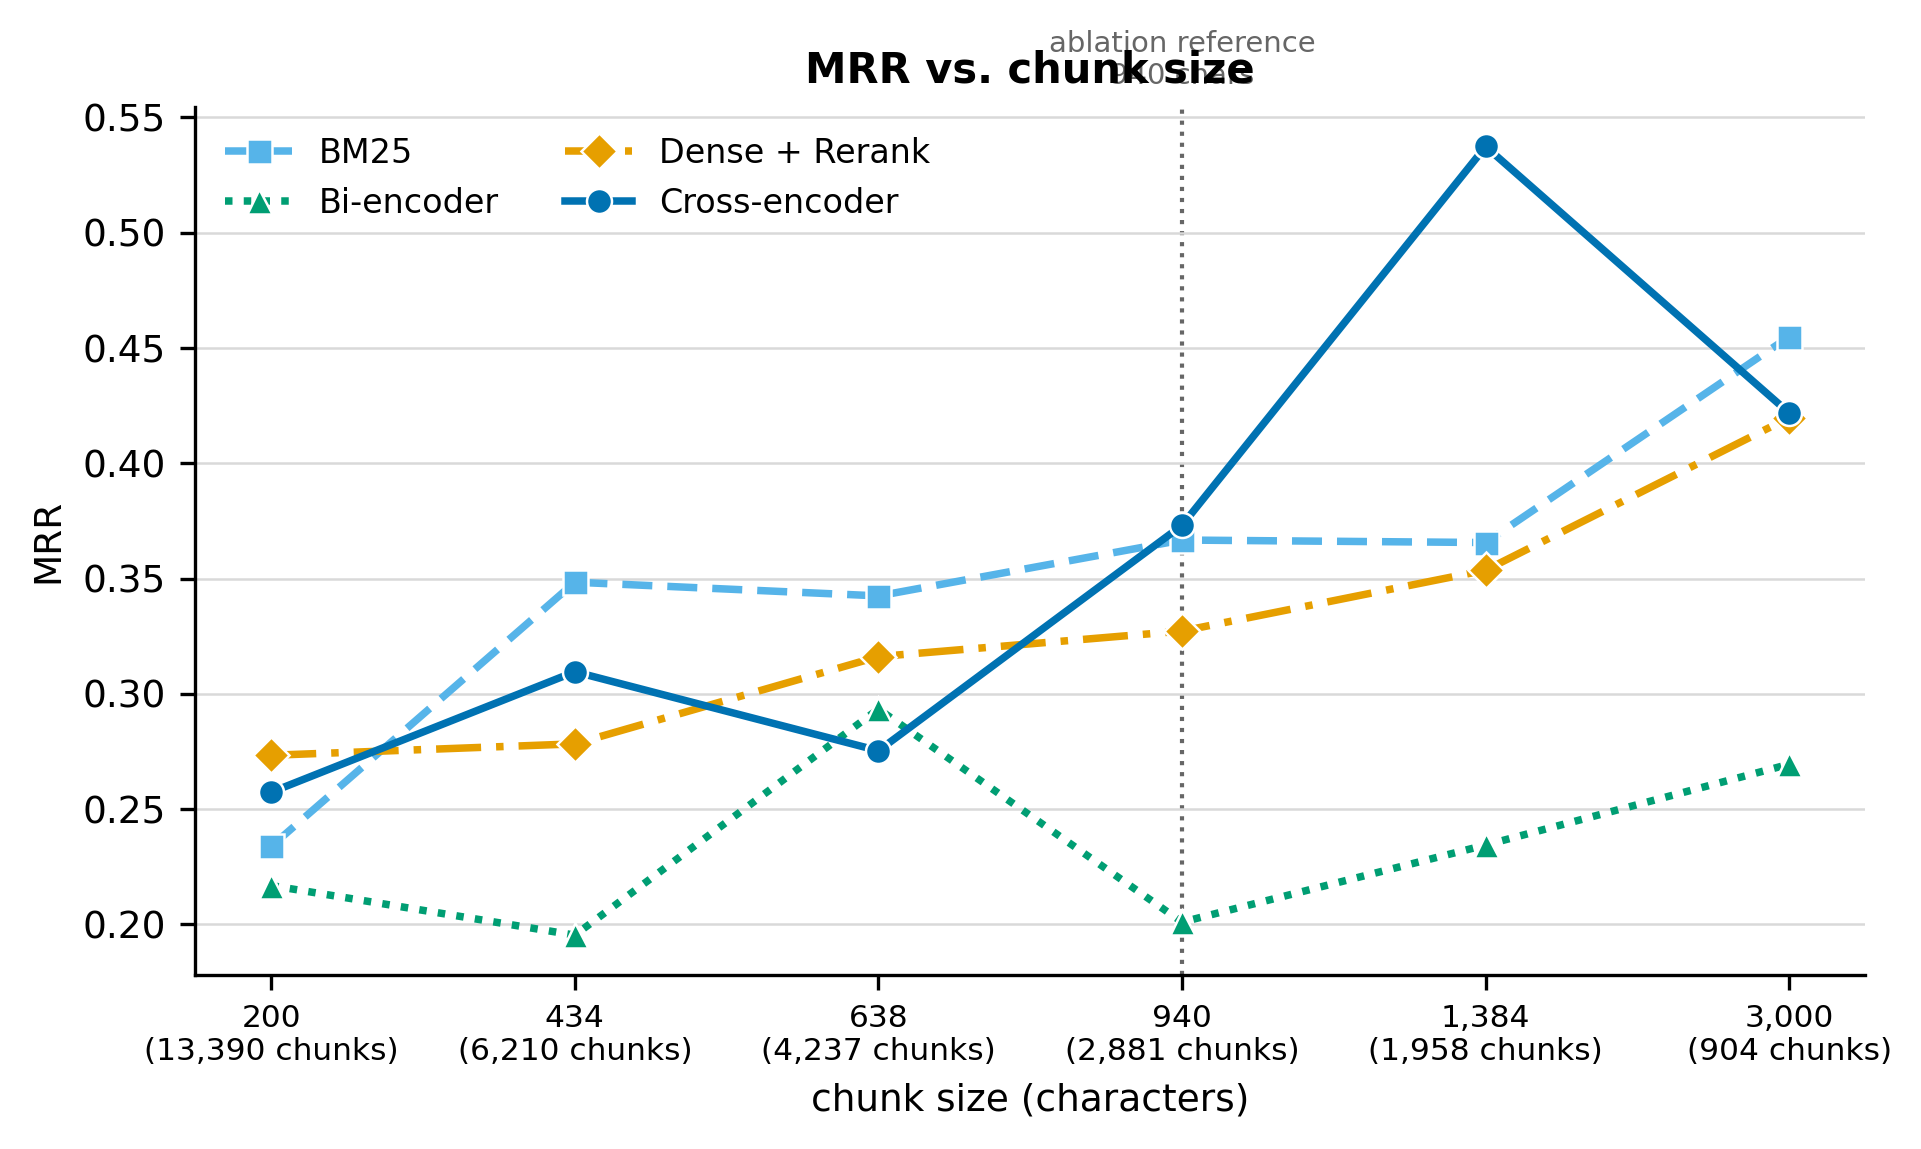
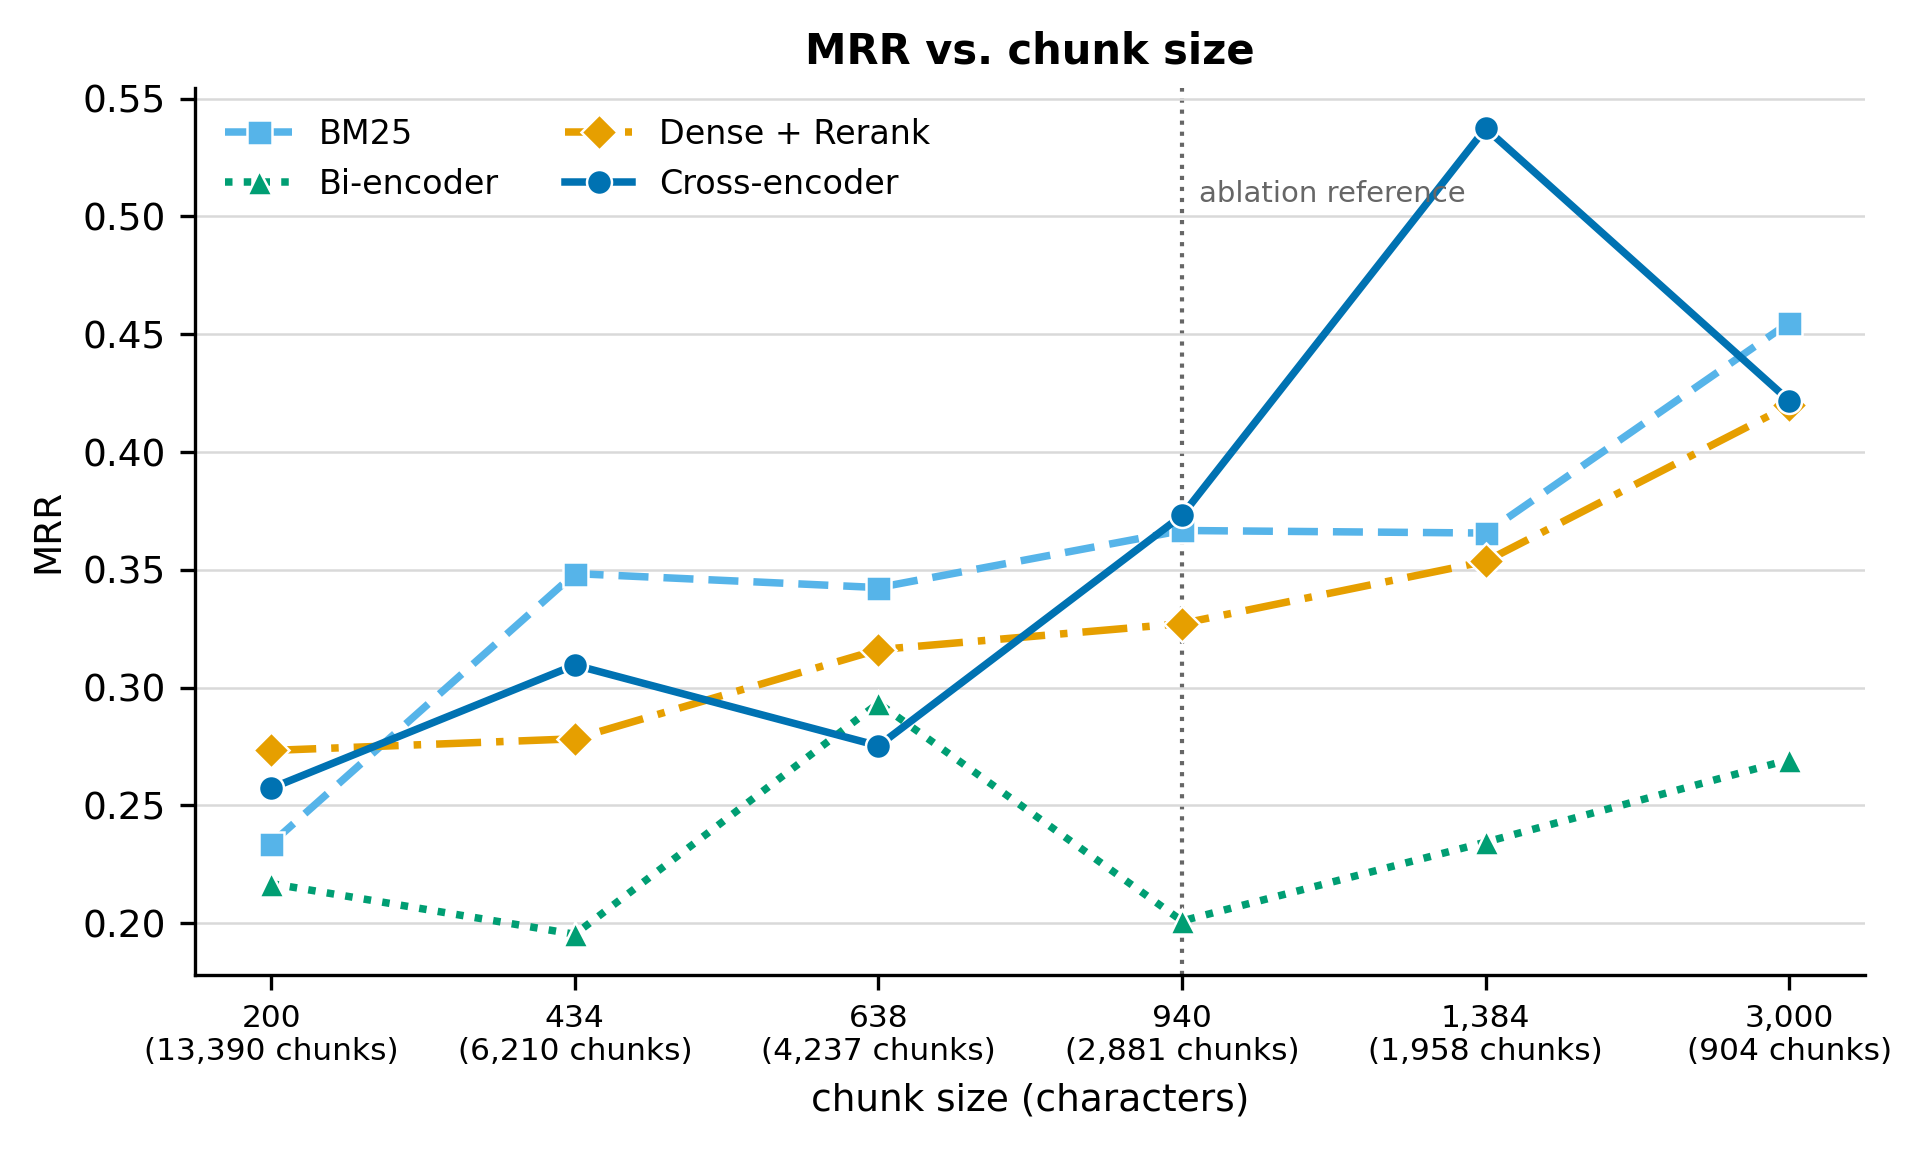
Regenerate figures: restrict CE histogram to the 24 evaluated labels
fig3_ce_score_histogram plotted all 26 labels present in ce_scores.csv
(it also scores 'Landscape dynamics' and 'Management'), giving
528 + 75,548 = 76,076 = 26 x 2,926 pairs rather than the 24 x 2,926 =
70,224 the paper reports. It also showed 528 ground-truth positives,
predating the label-whitespace fix.

The figure now filters to the 24 evaluated labels and restores the
(Legislation, chunk 2688) pair, reading n=529 and n=69,695.

fig2_ablation_mrr: moved the 'ablation reference' annotation inside the
axes; it was overlapping the plot title.

diff --git a/src/make_figures_revised.py b/src/make_figures_revised.py
@@ -157,11 +157,13 @@ def fig_ablation():
     # The ablation grid's own primary point is 940 chars (2,881 chunks) -- a
     # separate re-chunking from the paper's 1,000-char main config (2,926).
     ax.axvline(sizes.index(940), color="#666", lw=1.0, ls=":", zorder=1)
+    # Label sits inside the axes just right of the line, below the legend band,
+    # so it clears both the title and the plotted series.
     ax.annotate(
-        "ablation reference\n940 chars",
-        xy=(sizes.index(940), 1.0), xycoords=("data", "axes fraction"),
-        xytext=(0, 4), textcoords="offset points",
-        fontsize=7, color="#666", ha="center", va="bottom",
+        "ablation reference",
+        xy=(sizes.index(940), 0.88), xycoords=("data", "axes fraction"),
+        xytext=(4, 0), textcoords="offset points",
+        fontsize=7, color="#666", ha="left", va="center",
     )
 
     n_chunks = ab.drop_duplicates("chunk_size").set_index("chunk_size").n_chunks
@@ -180,8 +182,22 @@ def fig_ablation():
 def fig_ce_histogram():
     """Paper Fig 3. Two overlaid step histograms; hatch + linestyle separate them."""
     ce = pd.read_csv(CE_SCORES)
-    pos = ce[ce.in_gt == 1].ce_score
-    neg = ce[ce.in_gt == 0].ce_score
+
+    # The score file covers 26 labels (it also scores 'Landscape dynamics' and
+    # 'Management'). The paper evaluates 24, so restrict to those before
+    # plotting: 24 x 2,926 = 70,224 pairs, not 26 x 2,926 = 76,076.
+    evaluable = set(pd.read_csv(CMP).label.unique())
+    ce = ce[ce.label.isin(evaluable)]
+
+    # This file predates the label-whitespace fix, so it marks 528 positives
+    # rather than 529. Restore the missing (Legislation, 2688) pair so the
+    # figure matches the ground truth reported in the paper.
+    ce["in_gt"] = ce["in_gt"].astype(bool)
+    miss = (ce.label == "Legislation") & (ce.chunk_id == 2688)
+    ce.loc[miss, "in_gt"] = True
+
+    pos = ce[ce.in_gt].ce_score
+    neg = ce[~ce.in_gt].ce_score
 
     fig, ax = plt.subplots(figsize=(6.5, 3.6))
     ax.set_title("Cross-encoder score distribution")
